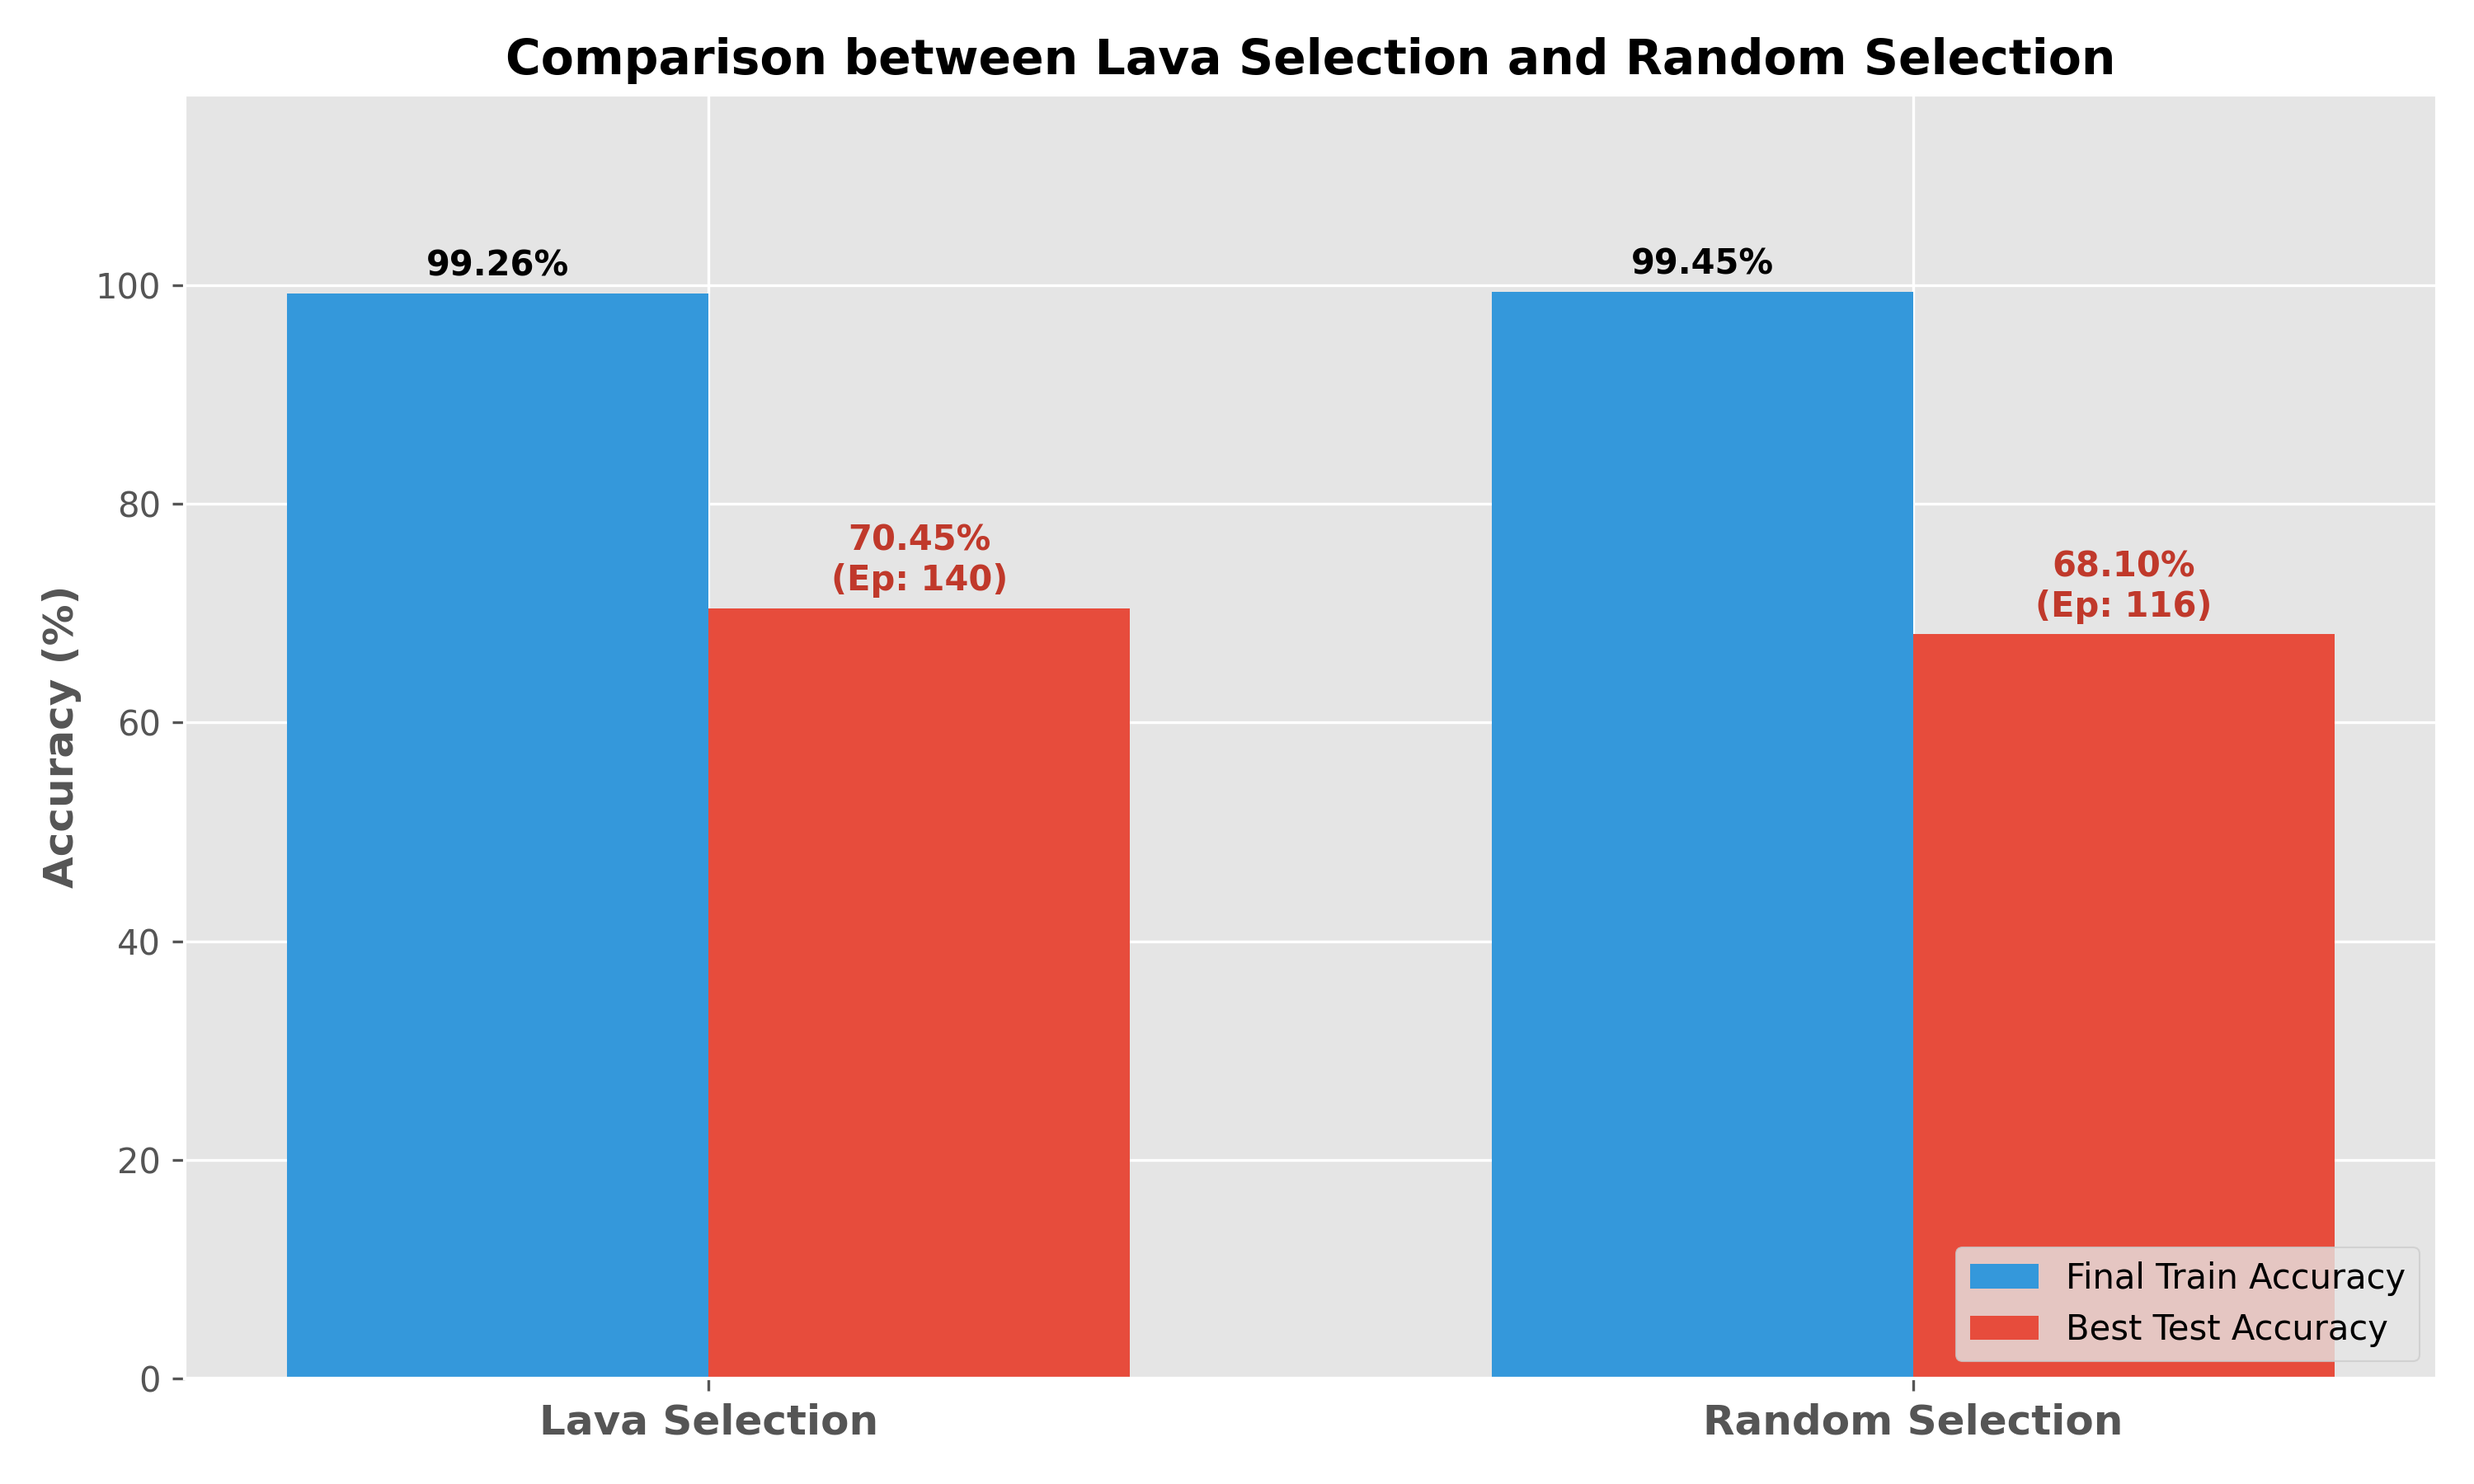
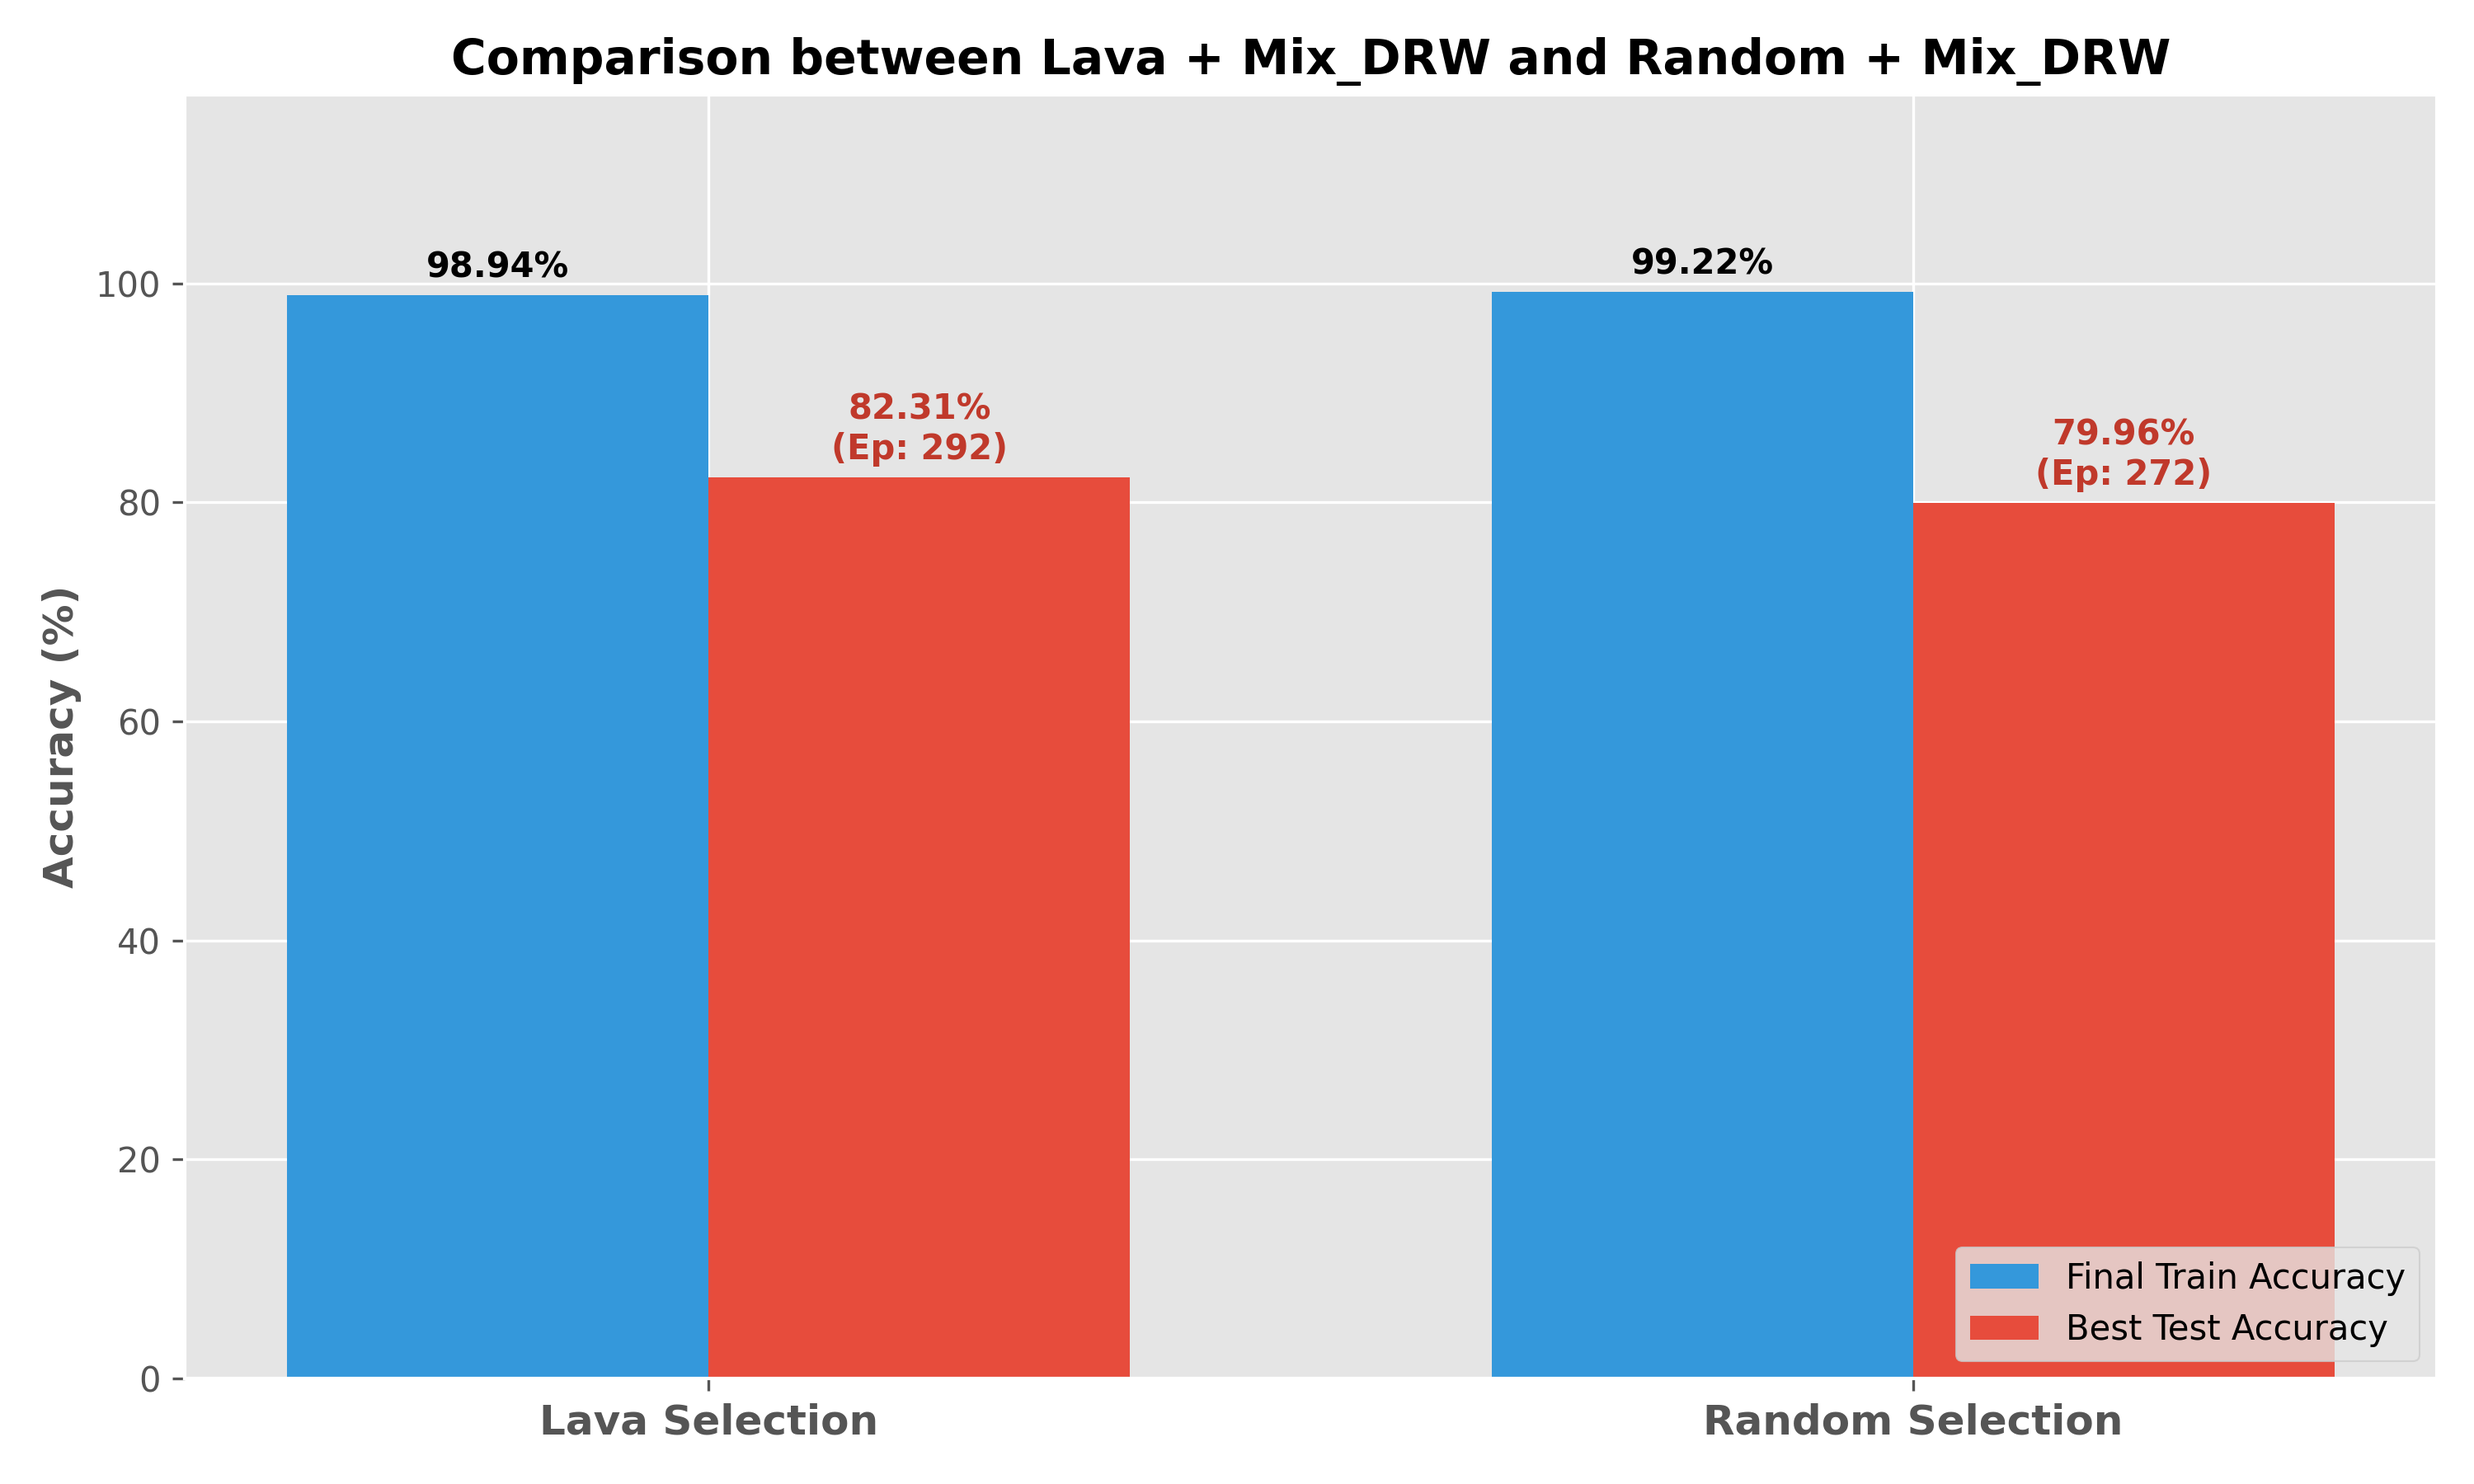
change config file

diff --git a/results/plot_compare_best_test_accuracy.py b/results/plot_compare_best_test_accuracy.py
@@ -93,7 +93,7 @@ def plot_comparison(lava_file, random_file, output_dir):
 
     # Formatting
     ax.set_ylabel('Accuracy (%)', fontweight='bold')
-    ax.set_title('Comparison between Lava Selection and Random Selection', fontsize=14, fontweight='bold')
+    ax.set_title('Comparison between Lava + Mix_DRW and Random + Mix_DRW', fontsize=14, fontweight='bold')
     ax.set_xticks(x)
     ax.set_xticklabels(labels, fontweight='bold', fontsize=12)
     
@@ -112,8 +112,8 @@ def plot_comparison(lava_file, random_file, output_dir):
 
 if __name__ == "__main__":
     # --- UPDATE THESE PATHS ---
-    file_lava = "train/cifar10_lava_0.7_exp_0.01_ERM_200_seed.log"
-    file_random = "train/cifar10_random_0.7_exp_0.01_ERM_200_seed.log"
+    file_lava = "train/cifar10_lava0.7_mixup_drw_exp0.01_seed42/cifar10_lava0.7_mixup_drw_exp0.01_seed42_20260404_034240.log"
+    file_random = "train/cifar10_random0.7_mixup_drw_exp0.01_seed42/cifar10_random0.7_mixup_drw_exp0.01_seed42_20260404_034857.log"
     results_output = "plot"
     
     plot_comparison(file_lava, file_random, results_output)

diff --git a/results/plot.py b/results/plot.py
@@ -95,7 +95,7 @@ def plot_and_save(log_dir, output_dir):
         plt.close()
 
 if __name__ == "__main__":
-    source_logs = "train/cifar10_random0.7_mixup_drw_exp0.01_seed42" 
+    source_logs = "train/cifar10_lava0.7_mixup_drw_exp0.01_seed42" 
     results_output = "plot"
     
     print(f"Looking for logs in: {os.path.abspath(source_logs)}")
